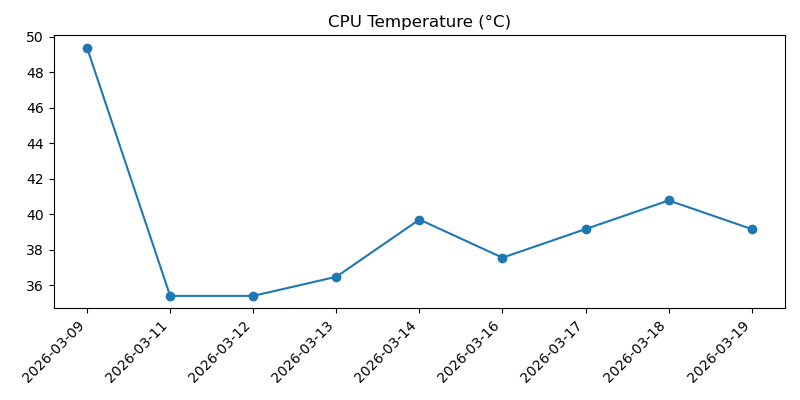
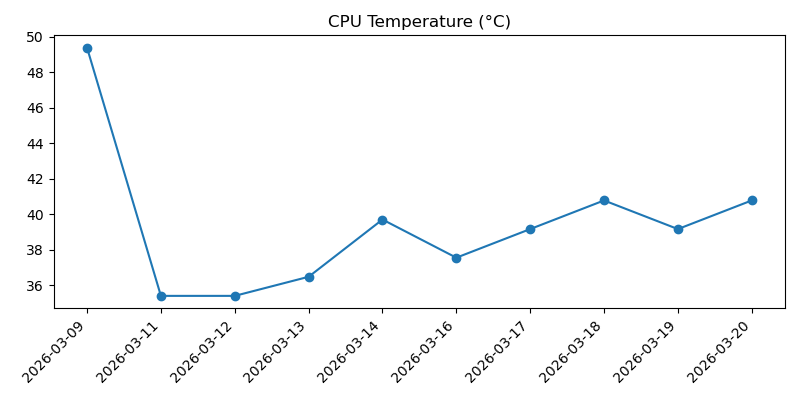
Record daily machine check

diff --git a/2026-03.md b/2026-03.md
@@ -305,3 +305,37 @@
 - Overall: Good
 - Warning: None
 
+## 2026-03-20 16:38:36
+
+### Machine
+- Uptime: up 1 week, 3 days, 22 hours, 59 minutes
+- CPU load (1m, 5m, 15m): 0.00, 0.00, 0.00
+- RAM used: 195 MB / 921 MB (21.2%)
+- Disk used (/): 3.5 GB / 28.8 GB (12.1%)
+- Free disk space (/): 24.1 GB
+- CPU temp: 40.8°C
+- Voltage / throttling: OK
+
+### Reachability
+- Internet check (1.1.1.1): Reachable (3.6 ms)
+
+### Weather
+- Madrid:
+  - Condition: Cubierto con lluvia escasa
+  - Max temp: 16°C
+  - Min temp: 8°C
+  - Feels like: 12°C
+  - Chance of rain: 60%
+  - Warnings: None reported
+- Barcelona:
+  - Condition: Despejado
+  - Max temp: 17°C
+  - Min temp: 9°C
+  - Feels like: 13°C
+  - Chance of rain: 0%
+  - Warnings: None reported
+
+### Health
+- Overall: Good
+- Warning: None
+
